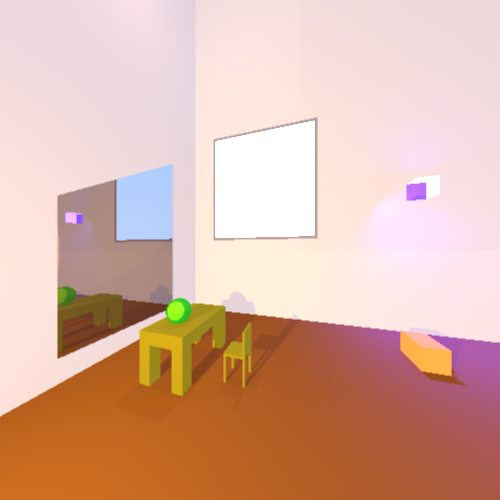
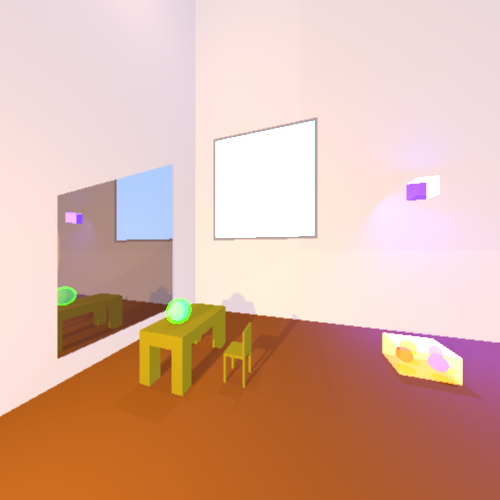
include spin around

Changed region(s): [[0.75, 0.66, 0.96, 0.81], [0.33, 0.6, 0.39, 0.66], [0.09, 0.57, 0.15, 0.63]]

diff --git a/src/renderer/Camera.java b/src/renderer/Camera.java
@@ -450,6 +450,135 @@ public class Camera {
 
 
 
+    private double transferToRadialAngle(double angle)
+    {
+        if (angle>=360 || angle<=-360)
+            angle = angle % 360;
+
+        if(angle > 180)
+            angle = angle - 180; // the angle is less than 180
+
+        if(angle < -180)
+            angle = angle+ 180; // the angle is bigger than -180
+
+        return Math.toRadians(angle);
+    }
+
+    /**
+     * spin the camera up and down around vRight vector
+     * @param angle in degrees (how many we need move)
+     * @return the camera with the update vectors of Vto and Vup
+     */
+    public Camera spinAroundVRight(double angle){
+
+        //we are move only the vUp and the vTo vectors
+        double angleRad = transferToRadialAngle(angle);
+        double sinA = Math.sin(angleRad);
+        double cosA = Math.cos(angleRad);
+        if(isZero(cosA)){ //if the angle is 90 or -90 degrees, we move the camera 90 degrees upper
+            Vto = Vup.scale(sinA).normalize(); //sin (90) = 1, sin (-90) = -1, vTo = vUp or vTo = -vUp
+        }
+        else if(isZero(sinA)){ //if angle is 0 or 180 degrees
+            Vto = Vto.scale(cosA).normalize(); //cos(0) = 1, cos(180) = -1, vTo = vTo or vTo = -vTo
+        }
+        else{ //spin around the vTo vector according to the Rodrigues' rotation formula (rotation V = v*cosA + (K x v)*sinA + K*(K*V)(1-cosA), k is vRight in our situation
+            Vto = Vto.scale(cosA).add(Vright.crossProduct(Vto).scale(sinA)).normalize();
+        }
+        Vup = Vright.crossProduct(Vto).normalize(); //change the vUp vector according to the new vTo (vUp is perpendicular to vTo and vRight)
+
+        return this;
+    }
+
+    /**
+     * spin the camera left and right around vUp vector
+     * @param angle in degrees (how many we need move)
+     * @return The camera with update vectors of Vto and Vright
+     */
+    public Camera spinAroundVUp(double angle){
+
+        //we are move only the vRight and the vTo vectors
+        double angleRad = transferToRadialAngle(angle);
+        double sinA = Math.sin(angleRad);
+        double cosA = Math.cos(angleRad);
+        if(isZero(cosA)){ //if angle is 90 or -90 degrees, we move the camera 90 degrees
+            Vright = Vto.scale(sinA).normalize(); //sin (90) = 1, sin (-90) = -1, vRight = vTo or vRight = -vTo
+        }
+        else if(isZero(sinA)){ //if angle is 0 or 180 degrees
+            Vright = Vright.scale(cosA).normalize(); //cos(0) = 1, cos(180) = -1, vRight = vRight or vRight = -vRight
+        }
+        else{ //spin around the vTo vector according to the Rodrigues' rotation formula (rotation V = v*cosA + (K x v)*sinA + K*(K*V)(1-cosA), k is vUp in our situation
+            Vright = Vright.scale(cosA).add(Vup.crossProduct(Vright).scale(sinA)).normalize();
+        }
+        Vto = Vup.crossProduct(Vright).normalize(); //change the vTo vector according to the new vRight (vTo is perpendicular to vUp and vRight)
+
+        return this;
+    }
+
+    /**
+     * spin the camera around vTo vector
+     * @param angle in degrees (how many we need move)
+     * @return
+     */
+    public Camera spinAroundVTo(double angle){
+
+        //we are moving only the vUp and the vRight vectors
+        double angleRad = transferToRadialAngle(angle);
+        double sinA = Math.sin(angleRad);
+        double cosA = Math.cos(angleRad);
+        if(isZero(cosA)){ //if angle is 90 or -90 degrees, we move the camera 90 degrees
+            Vup = Vright.scale(sinA).normalize(); //sin (90) = 1, sin (-90) = -1, vUp = vRight or vUp = -vRight
+        }
+        else if(isZero(sinA)){ //if angle is 0 or 180 degrees
+            Vup = Vup.scale(cosA).normalize(); //cos(0) = 1, cos(180) = -1, vUp = vUp or vUp = -vUp
+        }
+        else{ //spin around the vTo vector according to the Rodrigues' rotation formula (rotation V = v*cosA + (K x v)*sinA + K*(K*V)(1-cosA), k is vTo in our situation
+            Vup = Vup.scale(cosA).add(Vto.crossProduct(Vup).scale(sinA)).normalize();
+        }
+        Vright = Vto.crossProduct(Vup).normalize(); //change the vTo vector according to the new vRight (vTo is perpendicular to vUp and vRight)
+
+        return this;
+    }
+
+
+    /**
+     * move the camera up or down
+     * @param distance the value of the distance to change the p0 position
+     * @return The camera with the update position of the up and down point
+     */
+    public Camera moveUpDown(double distance){
+        if(!isZero(distance)) {
+            p0 = p0.add(Vup.scale(distance));
+        }
+        return this;
+    }
+
+    /**
+     * move the camera right and left
+     * @param distance the value of the distance to change the p0 position
+     * @return The camera with the update position of the right and left point
+     */
+    public Camera moveRightLeft(double distance){
+        if(!isZero(distance)) {
+            p0 = p0.add(Vright.scale(distance));
+        }
+        return this;
+    }
+
+
+    /**
+     * move the camera back or forth
+     * @param distance the value of the distance to change the p0 position
+     * @return The camera with the update position of the back and forth point
+     */
+    public Camera moveForthAndBack(double distance){
+        if(!isZero(distance)) {
+            p0 = p0.add(Vto.scale(distance));
+        }
+        return this;
+    }
+
+
+
     /**
      * the function gets the view plane size and a specific pixel,
      * return the point of the center of the pixel
@@ -471,38 +600,6 @@ public class Camera {
         if (yI != 0) pIJCenter = pIJCenter.add(Vup.scale(yI));//add to the vertical
         return pIJCenter;//return the center of the pixel
     }
-
-//    private Color antiAliasing(int nX, int nY, int j, int i) {
-//        Color sumColors = new Color(0, 0, 0);
-//        Vector vectorToThePixel;
-//        Ray rayThroughPixel;
-//        //get the center of the pixel
-//        Point pIJCenter = getCenterPixel(nX, nY, j, i);
-//
-//        // make the top-left corner of the pixel
-//        Point pIJ;
-//        double rX = this.width / nX; //rX is the size of the horizontal rib of the pixel (without teh vertical rib)
-//        double interval = rX / amountRays;
-//
-//        for (double z = 0; z < amountRays; z++) {
-//            // move pIJ each iteration to the left of the current row
-//            // (the pixel is divided to grid of rows and columns
-//            // [interval times rows and interval times columns])
-//            if (!isZero(rX / 2 - (interval) * z))
-//                pIJ = pIJCenter.add(Vup.scale(rX / 2 - (interval) * z));
-//            else pIJ = pIJCenter;
-//            pIJ = pIJ.add(Vright.scale(-rX / 2));
-//            for (int q = 0; q < amountRays; q++) {
-//                pIJ = pIJ.add(Vright.scale(interval * rX));
-//                vectorToThePixel = pIJ.subtract(this.p0);
-//                rayThroughPixel = new Ray(this.p0, vectorToThePixel);
-//                sumColors = sumColors.add(rayTracer.traceRay(rayThroughPixel));
-//            }
-//        }
-//        // calculate the average color (there are eyeRaysAmount^2 sample rays);
-//        Color avarageColor = sumColors.scale((double) 1 / (amountRays * amountRays));
-//        return avarageColor;
-//    }
 
 
     /**

diff --git a/unitTests/renderer/AdaptiveTest1.java b/unitTests/renderer/AdaptiveTest1.java
@@ -18,13 +18,13 @@ class AdaptiveTest1 {
 
 
     /**
-     * Produce a picture of a sphere lighted by a spot light.
+     * Produce a picture of a sphere lighted by a spotlight.
      * The camera position, view direction, and other elements of the scene are set up to render the chair.
      */
     @Test
     public void adaptive1MP2() {
         Camera camera = new Camera(new Point(-50, -50, 50), new Vector(1, 0.3, 0), new Vector(0, 0, 1)) //
-                .setVPSize(150, 150).setVPDistance(50).setAdaptiveSuperSampling(true).setMaximumAdaptiveDepth(1); //.setMultithreading(3).setDebugPrint(0.1);
+                .setVPSize(150, 150).setVPDistance(50).setAdaptiveSuperSampling(true).setMaximumAdaptiveDepth(1).setMultithreading(3).setDebugPrint(0.1);
         scene.setAmbientLight(new AmbientLight(new Color(300, 150, 240), new Double3(0.1)));
 
         // Create a table and add its geometries to the scene
@@ -71,11 +71,14 @@ class AdaptiveTest1 {
                 .setMaterial(new Material().setKd(0.25).setKs(0.25).setShininess(20)
                         .setkT(new Double3(0.5, 0, 0))));
         //initialize cube
-        Squared3D cube= new Squared3D(new Point(40,-110,0),10,15,10,new Color(255,150,50));
+        Squared3D cube= new Squared3D(new Point(35,-110,0),20,15,10,new Color(255,150,50));
         for (var e : cube.getGeometryList()) {//move all over the polygons
-            scene.geometries.add(e.setMaterial(new Material().setKd(0.5).setKs(0.5).setShininess(30)));
+            scene.geometries.add(e.setMaterial(new Material().setKd(0.25).setKs(0.25).setkT(0.75)));
+            //setMaterial(new Material().setKd(0.25).setKs(0.25).setkT(0.75))
         }
-
+        scene.geometries.add(new Sphere(3,new Point(39,-105,5)).setEmission(new Color(0,0, 255)).setMaterial(new Material().setKd(0.25).setKs(0.25).setShininess(20)));
+        scene.geometries.add(new Sphere(3,new Point(42,-95,5)).setEmission(new Color(255,0, 0)).setMaterial(new Material().setKd(0.25).setKs(0.25).setShininess(20)));
+        scene.geometries.add(new Sphere(3,new Point(49,-100,5)).setEmission(new Color(0,255, 0)).setMaterial(new Material().setKd(0.25).setKs(0.25).setShininess(20)));
 
 
         //the frame of the window
@@ -94,7 +97,15 @@ class AdaptiveTest1 {
 
 
         //The water mellon
-        scene.geometries.add(new Sphere(5,new Point(10,0,25)).setEmission(new Color(0, 153, 0)).setMaterial(new Material().setkT(0.1).setKd(0.2).setKs(0.6)));
+        scene.geometries.add(new Sphere(5,new Point(10,0,25)).setEmission(new Color(0, 255, 0)).setMaterial(new Material().setKd(0.25).setKs(0.25).setkT(0.75)));
+        scene.geometries.add(new Sphere(4,new Point(10,0,25)).setEmission(new Color(110,80, 225)).setMaterial(new Material().setKd(0.25).setKs(0.25).setShininess(20)));
+
+//                        setkT(new Double3(0.5, 0, 0)))));
+//        new Sphere(400d, new Point(-950, -900, -1000)).setEmission(new Color(0, 50, 100)) //
+//                .setMaterial(new Material().setKd(0.25).setKs(0.25).setShininess(20)
+//                        .setkT(new Double3(0.5, 0, 0))),
+//                new Sphere(200d, new Point(-950, -900, -1000)).setEmission(new Color(100, 50, 20)) //
+//                        .setMaterial(new Material().setKd(0.25).setKs(0.25).setShininess(20))
 
         //add the lights
         for (int i=0;i<2;i++) {

diff --git a/unitTests/renderer/ReflectionRefractionTests.java b/unitTests/renderer/ReflectionRefractionTests.java
@@ -109,6 +109,56 @@ public class ReflectionRefractionTests {
               .writeToImage();
    }
 
+   @Test
+   public void trianglesTransparentSphereAngleAndPosition1() {
+      Camera camera = new Camera(new Point(0, 0, 1000), new Vector(0, 0, -1), new Vector(0, 1, 0)) //
+              .setVPSize(200, 200).setVPDistance(1000).moveForthAndBack(50).moveUpDown(20).moveRightLeft(-30);//.spinAroundVRight(5);
+
+      scene.setAmbientLight(new AmbientLight(new Color(WHITE), 0.15));
+
+      scene.geometries.add( //
+              new Triangle(new Point(-150, -150, -115), new Point(150, -150, -135),
+                      new Point(75, 75, -150)) //
+                      .setMaterial(new Material().setKd(0.5).setKs(0.5).setShininess(60)), //
+              new Triangle(new Point(-150, -150, -115), new Point(-70, 70, -140), new Point(75, 75, -150)) //
+                      .setMaterial(new Material().setKd(0.5).setKs(0.5).setShininess(60)), //
+              new Sphere(30d, new Point(60, 50, -50)).setEmission(new Color(BLUE)) //
+                      .setMaterial(new Material().setKd(0.2).setKs(0.2).setShininess(30).setkT(0.6)));
+
+      scene.lights.add(new SpotLight(new Color(700, 400, 400), new Point(60, 50, 0), new Vector(0, 0, -1)) //
+              .setKl(4E-5).setKq(2E-7));
+
+      ImageWriter imageWriter = new ImageWriter("refractionShadowPosition1", 600, 600);
+      camera.setImageWriter(imageWriter) //
+              .setRayTracer(new RayTracerBasic(scene)) //
+              .renderImage() //
+              .writeToImage();
+   }
+   @Test
+   public void trianglesTransparentSphereAngleAndPosition2() {
+      Camera camera = new Camera(new Point(0, 0, 1000), new Vector(0, 0, -1), new Vector(0, 1, 0)) //
+              .setVPSize(200, 200).setVPDistance(1000).spinAroundVRight(180);//.spinAroundVRight(5);
+
+      scene.setAmbientLight(new AmbientLight(new Color(WHITE), 0.15));
+
+      scene.geometries.add( //
+              new Triangle(new Point(-150, -150, -115), new Point(150, -150, -135),
+                      new Point(75, 75, -150)) //
+                      .setMaterial(new Material().setKd(0.5).setKs(0.5).setShininess(60)), //
+              new Triangle(new Point(-150, -150, -115), new Point(-70, 70, -140), new Point(75, 75, -150)) //
+                      .setMaterial(new Material().setKd(0.5).setKs(0.5).setShininess(60)), //
+              new Sphere(30d, new Point(60, 50, -50)).setEmission(new Color(BLUE)) //
+                      .setMaterial(new Material().setKd(0.2).setKs(0.2).setShininess(30).setkT(0.6)));
+
+      scene.lights.add(new SpotLight(new Color(700, 400, 400), new Point(60, 50, 0), new Vector(0, 0, -1)) //
+              .setKl(4E-5).setKq(2E-7));
+
+      ImageWriter imageWriter = new ImageWriter("refractionShadowPosition2", 600, 600);
+      camera.setImageWriter(imageWriter) //
+              .setRayTracer(new RayTracerBasic(scene)) //
+              .renderImage() //
+              .writeToImage();
+   }
 
    /**
     * test of a small illustration
